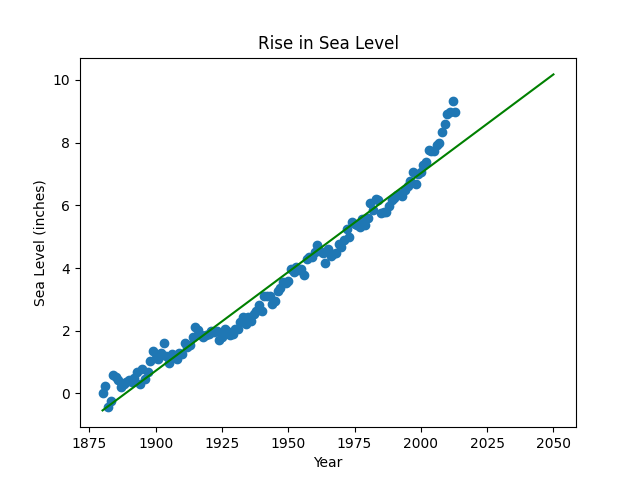
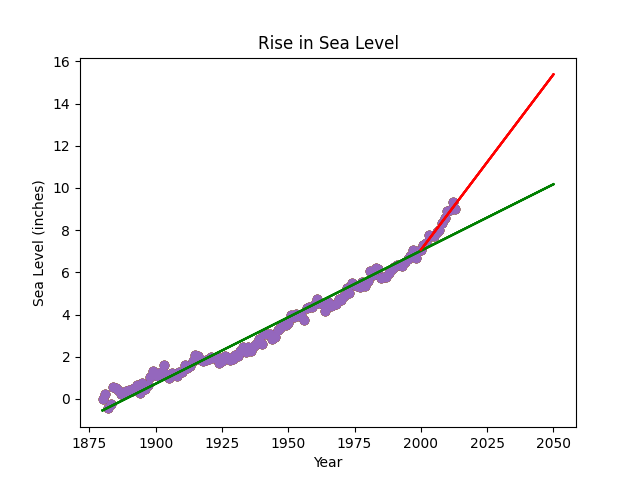
feat: pass all tests

diff --git a/sea_level_predictor.py b/sea_level_predictor.py
@@ -9,7 +9,7 @@ def draw_plot():
     # Create scatter plot
     plt.scatter(df['Year'], df['CSIRO Adjusted Sea Level']  )
 
-    #https://www.w3schools.com/python/python_ml_linear_regression.asp
+    # https://www.w3schools.com/python/python_ml_linear_regression.asp
     # Create first line of best fit
     slope, intercept, r, p, std_err = linregress(df['Year'], df['CSIRO Adjusted Sea Level'])
 
@@ -32,7 +32,7 @@ def draw_plot():
     slope2, intercept2, r2, p2, std_err2 = linregress(df_recent['Year'], df_recent['CSIRO Adjusted Sea Level'])
     listOfYears2 = list(range(2000, 2051))
     def CalculusOfTheLine2(x):
-        slope2 * x + intercept2
+        return slope2 * x + intercept2
     y2 = list(map(CalculusOfTheLine2, listOfYears2))
     plt.plot(listOfYears2, y2, color = 'red')
 
